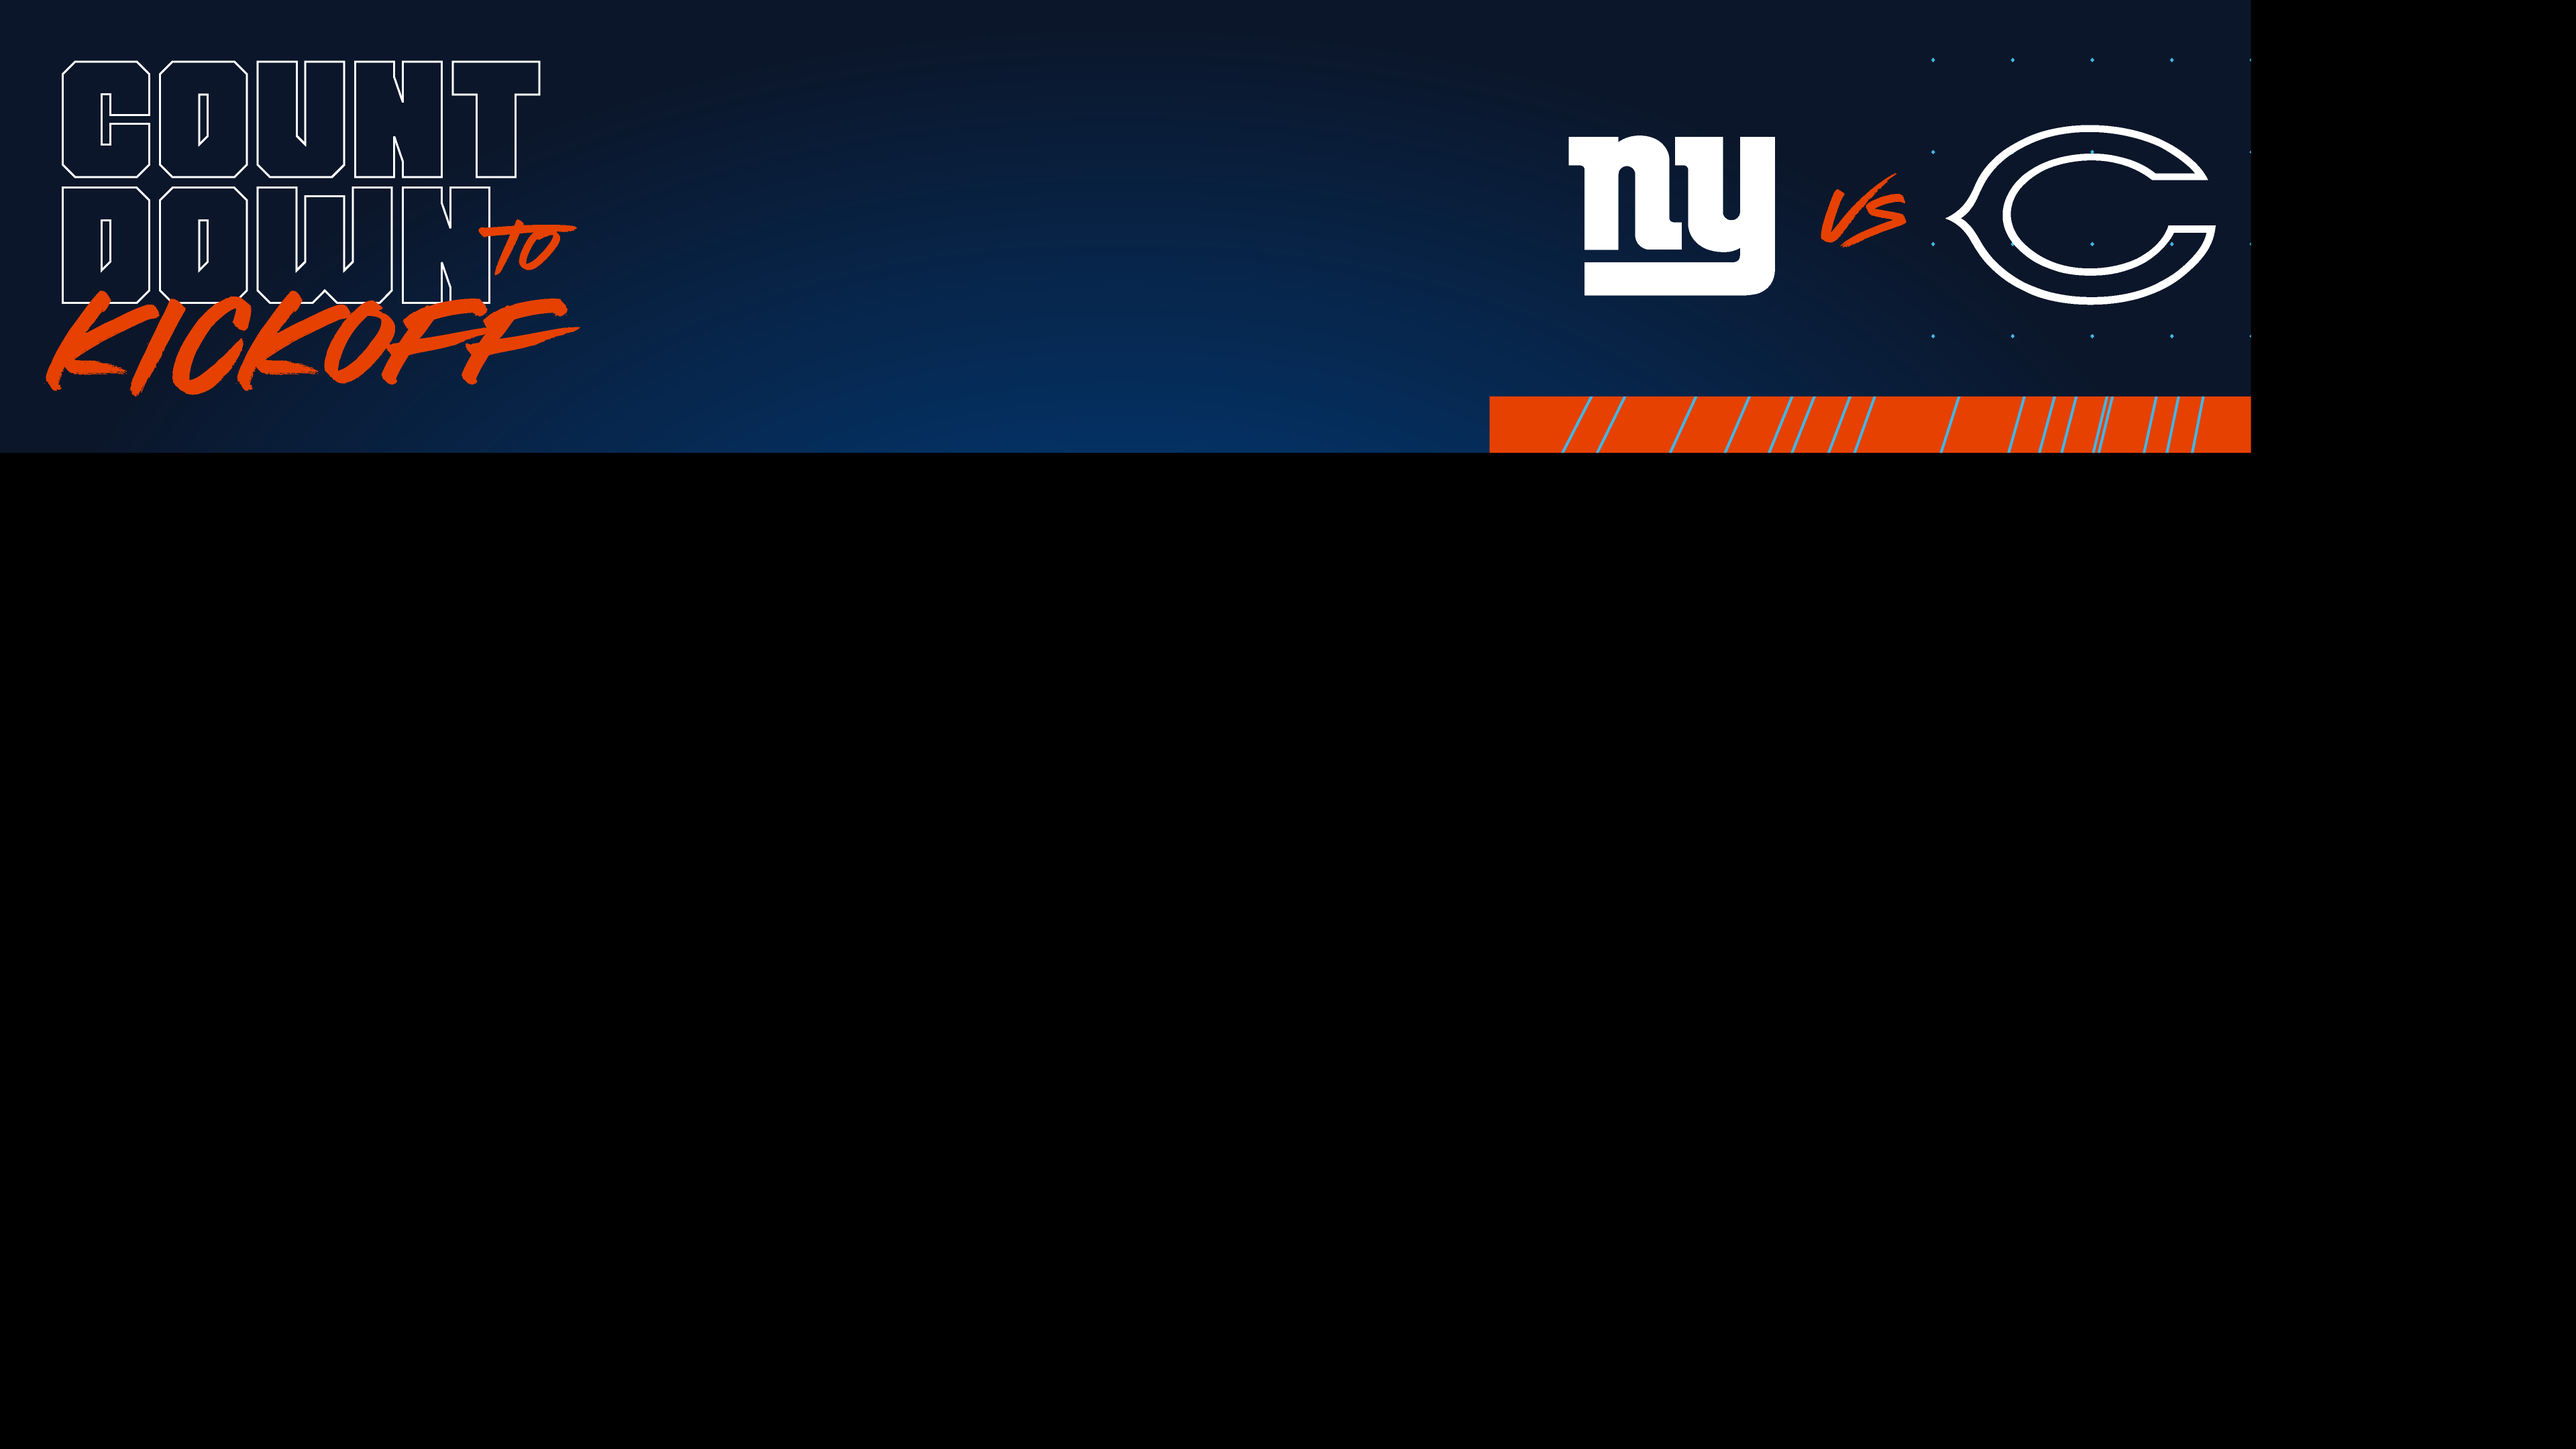
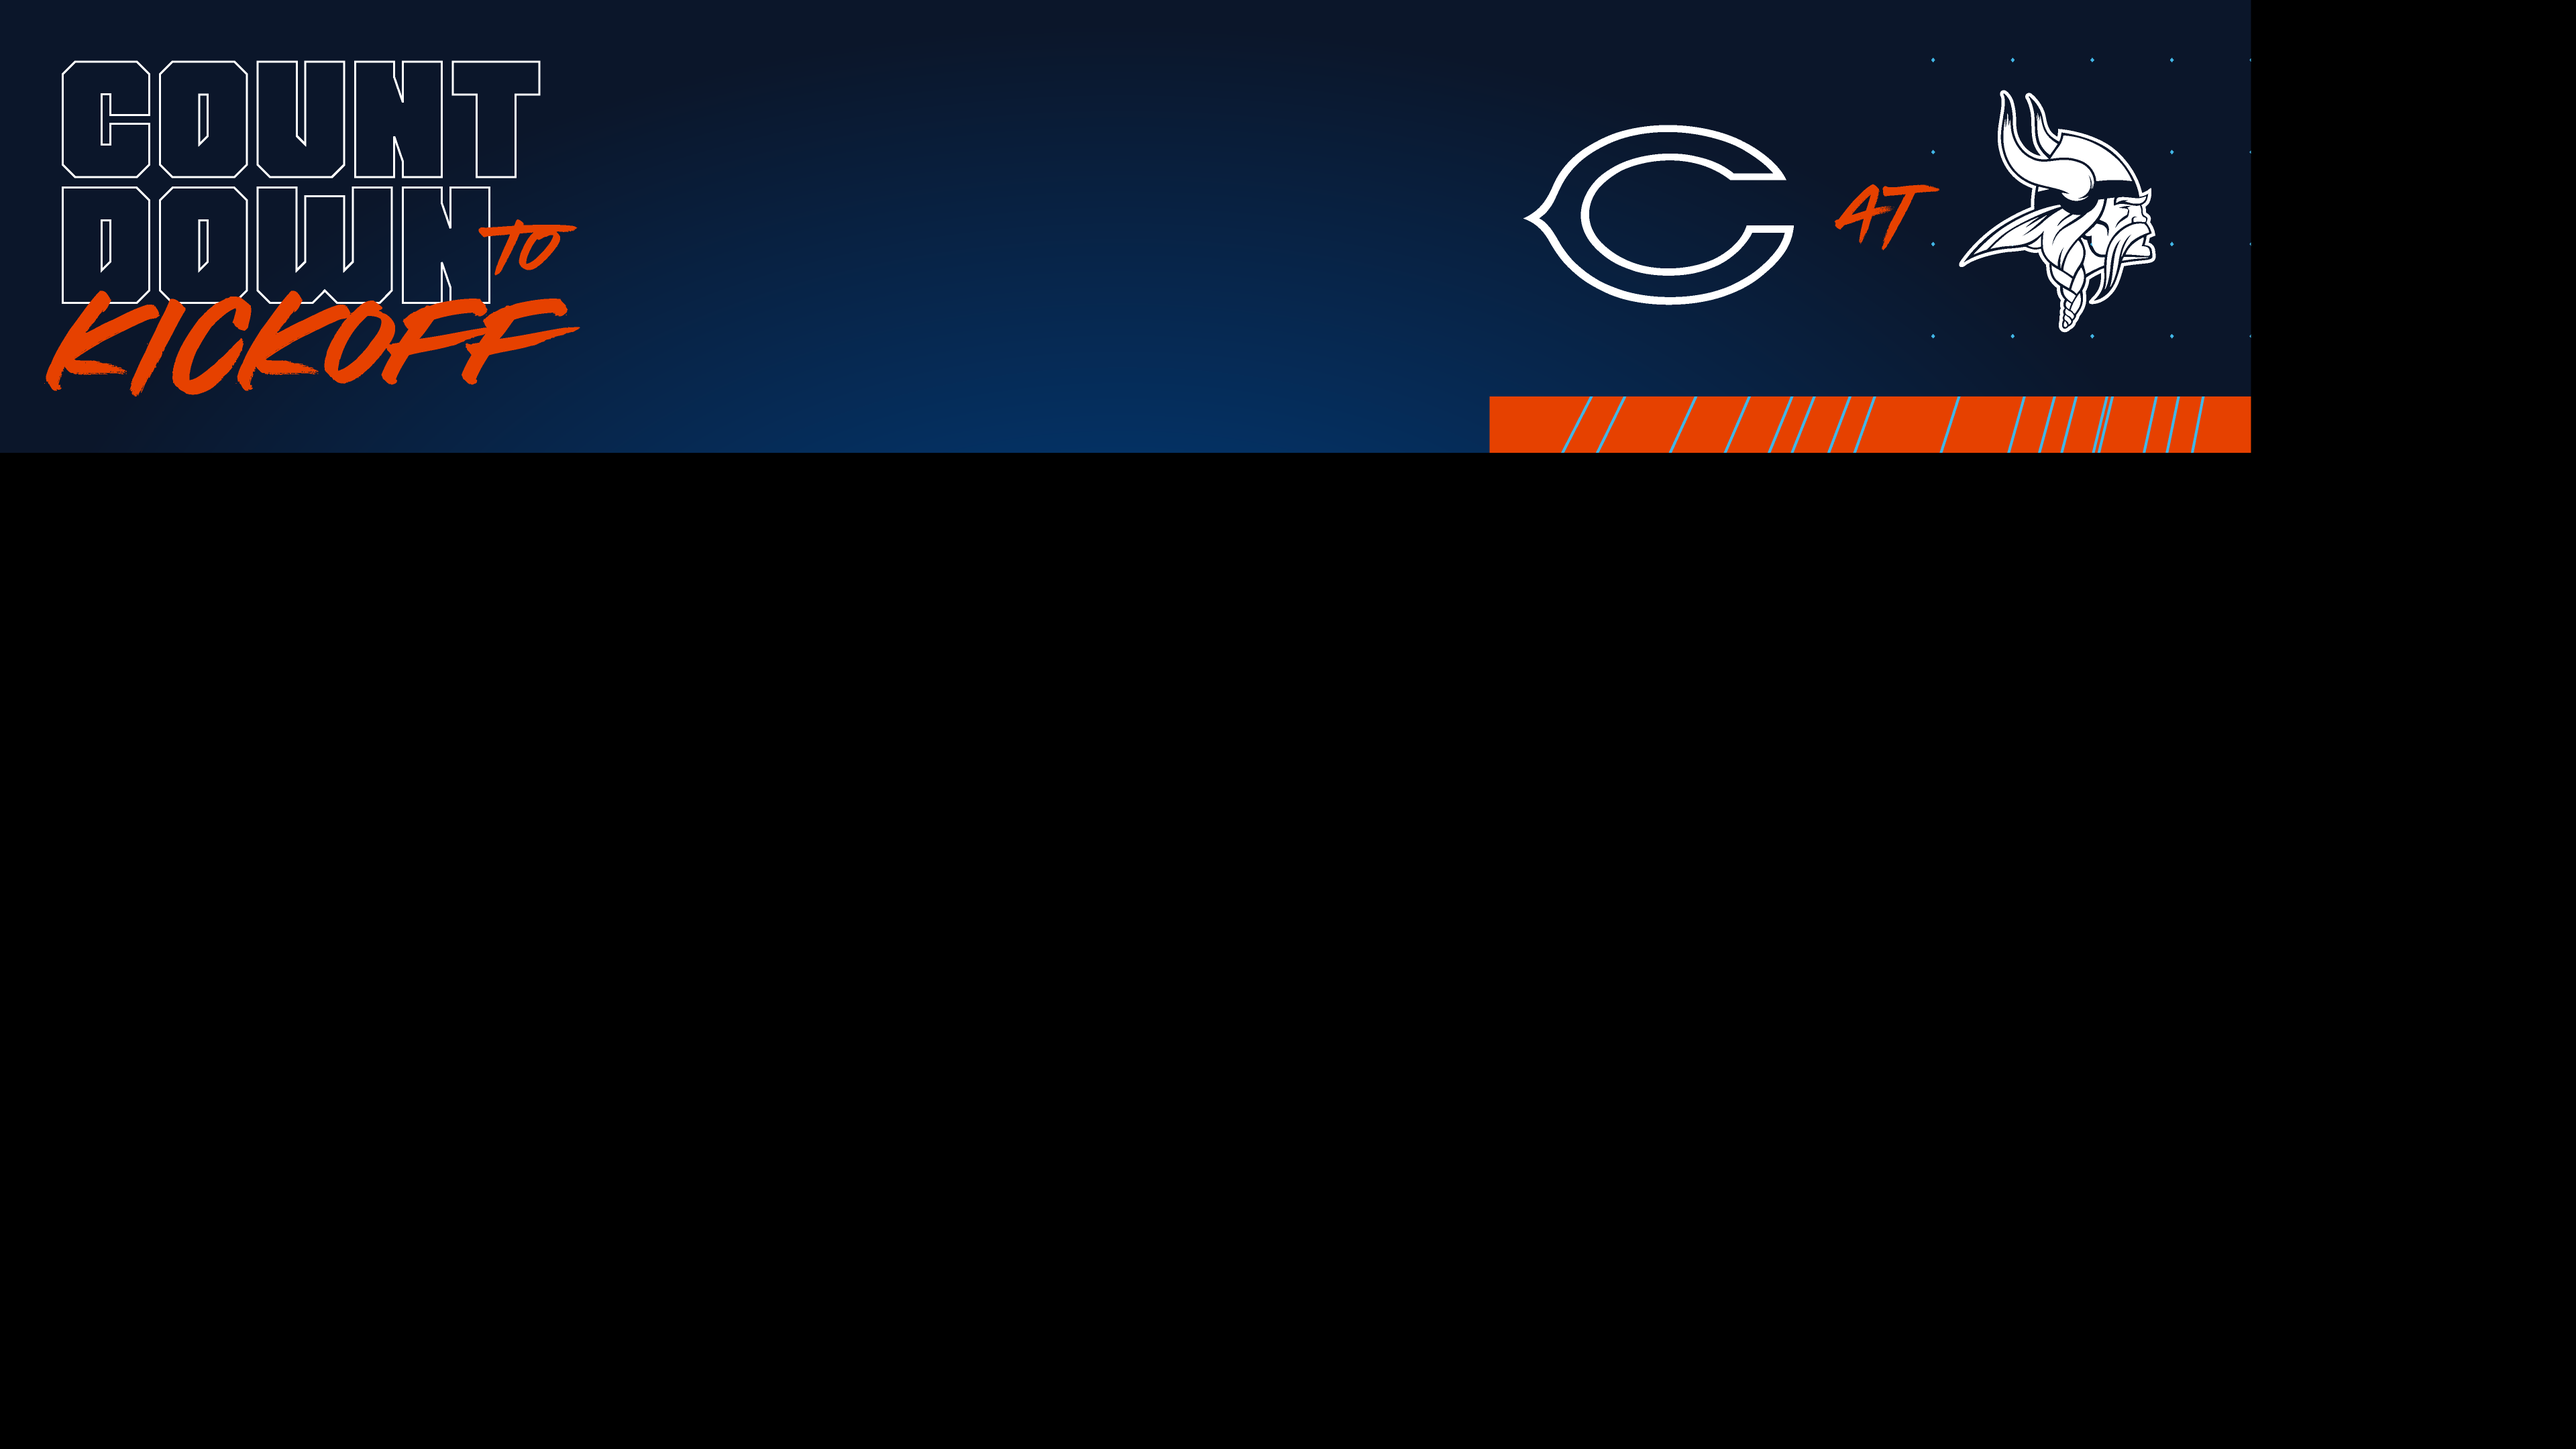
MIN game

Changed region(s): [[0.5938, 0.062, 0.875, 0.2171]]

diff --git a/CurrentWeek/Horizontal/script.js b/CurrentWeek/Horizontal/script.js
@@ -68,9 +68,9 @@ $(document).ready(function(){
 			return futureFormattedDate
 		}
 		//USE 24HR MILITARY TIME
-		//NYG
+		//MIN
 		$("#countdown").countdown({
-			date: "2 January 2022 12:00:00",
+			date: "9 January 2022 12:00:00",
 			format: "on"
 		});
 	});
